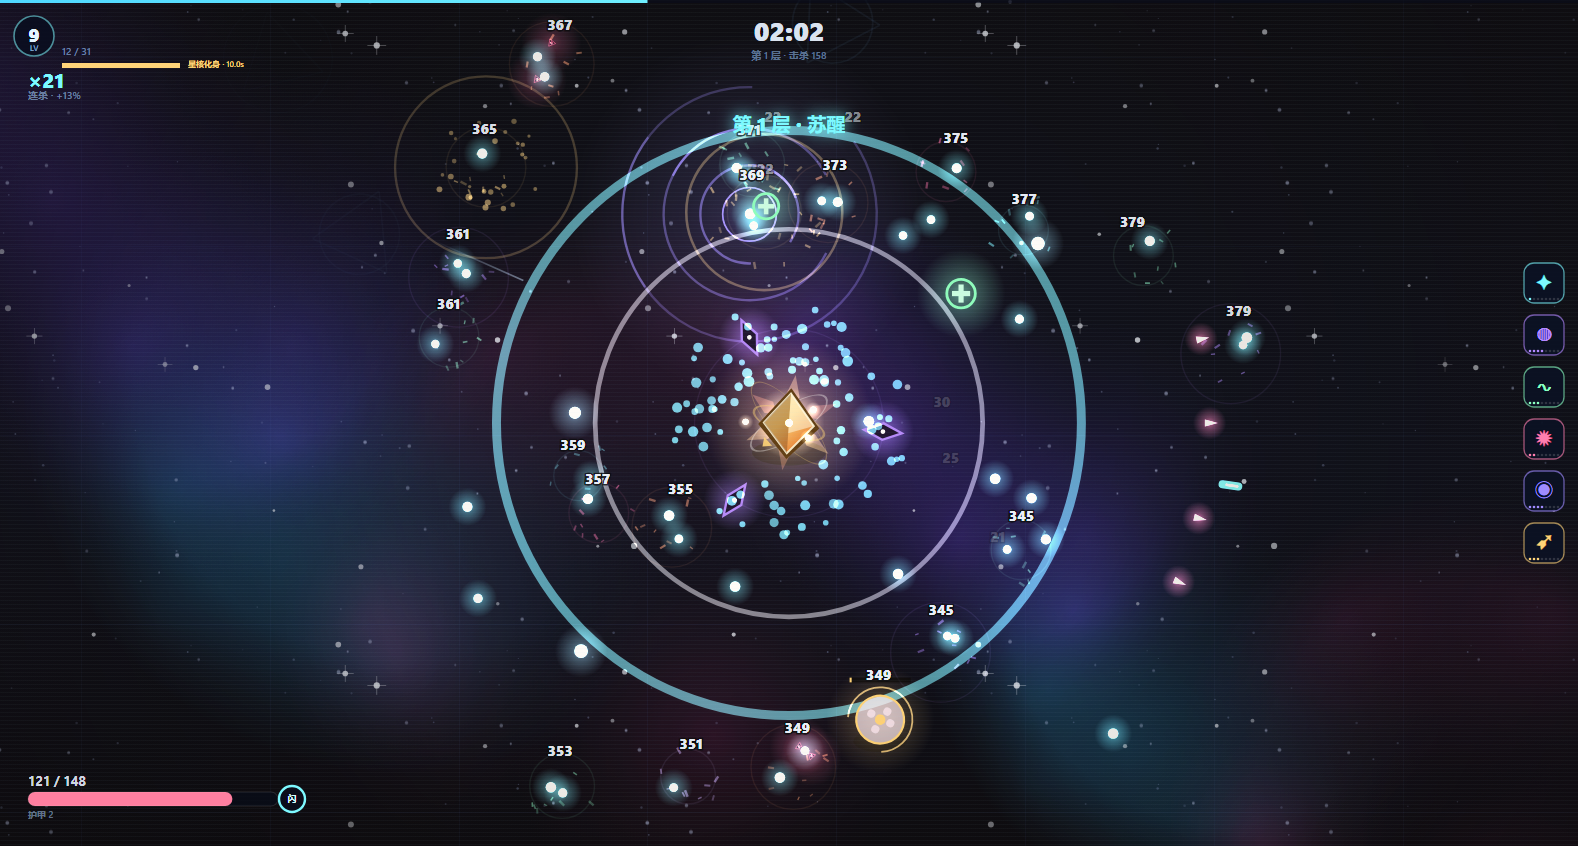
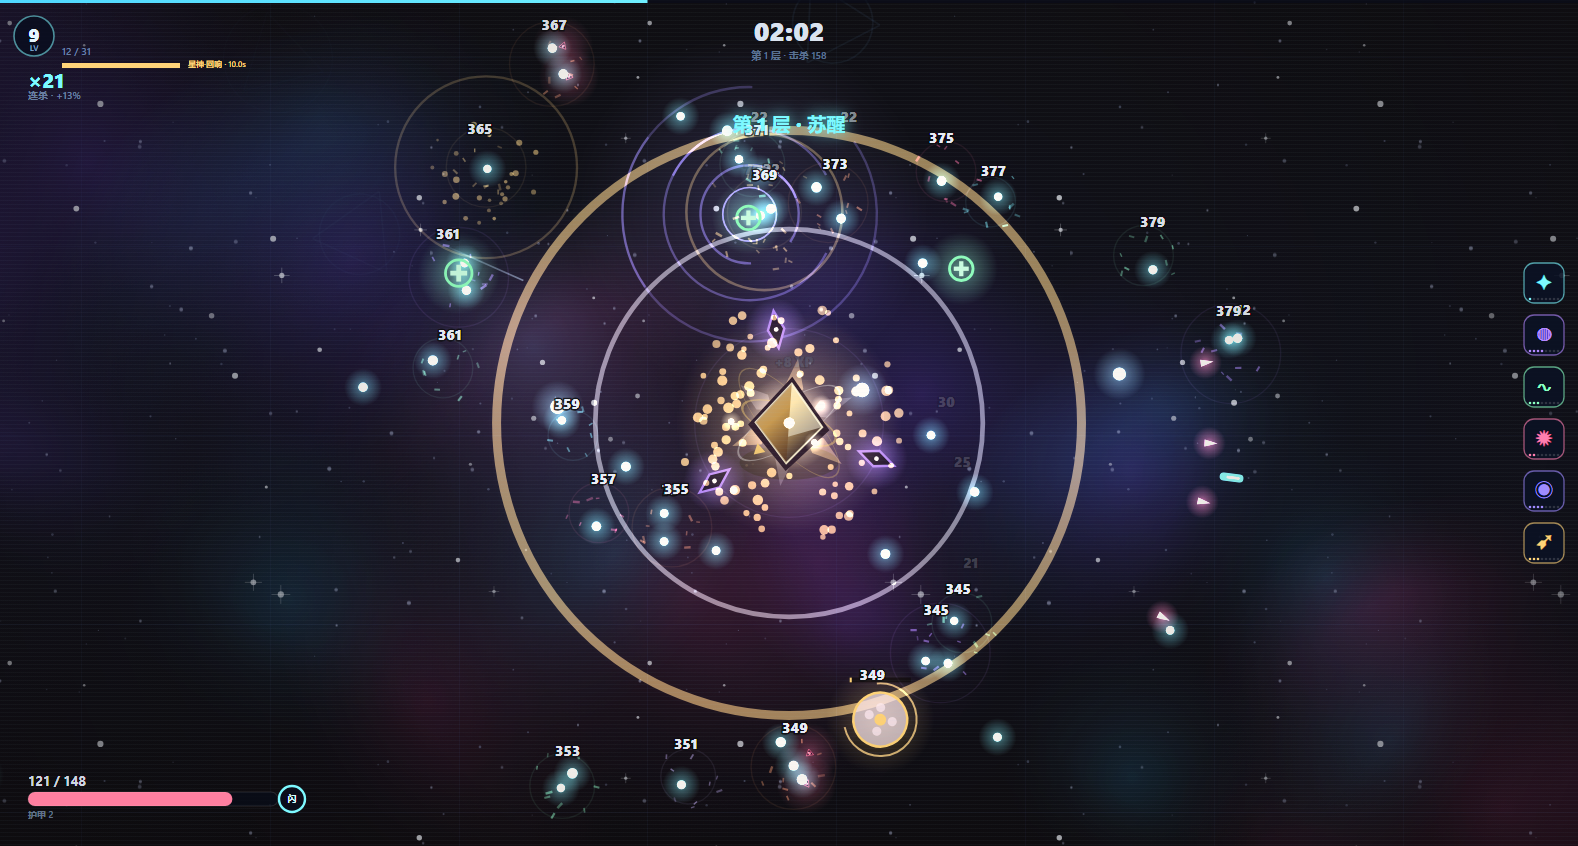
项目: 《星渊回响》v1.30.0 —— 满级流程与星神模型

diff --git a/projects/aether-echo/js/game.js b/projects/aether-echo/js/game.js
@@ -161,6 +161,7 @@
       if (runKills >= 600) unlock('run_600');
       if (runLevel >= 20) unlock('lv20');
       if (runLevel >= 40) unlock('lv40');
+      if (runLevel >= AE.Data.CONST.LEVEL_MAX) unlock('lv60');
       if (totalBosses >= 1) unlock('boss1');
       if (totalBosses >= 10) unlock('boss10');
       if ((st.evolves || 0) >= 1) unlock('evolve1');
@@ -713,6 +714,7 @@
       p.level = G.level;
       p.maxHp += 4;
       p.hp = Math.min(p.maxHp, p.hp + 4);
+      if (G.level >= AE.Data.CONST.LEVEL_MAX) G.xp = 0;
       G.xpNeed = AE.Data.xpNeed(G.level);
       G.pending++;
       AE.FX.ring(p.x, p.y, '#ffd479', 6, 120, 0.6, 3);
@@ -788,6 +790,11 @@
       const p = G.player;
       if (!p) return;
       const v = n * p.xpMul * ((G.mod && G.mod.xpMul) || 1);
+      if (G.level >= AE.Data.CONST.LEVEL_MAX) {
+        G.echoBonus += v * 0.02;
+        if (n >= 6) AE.FX.text(p.x, p.y - 34, '+' + Math.round(v * 0.02) + ' 回响', '#ffd479', 13);
+        return;
+      }
       G.xp += v;
       if (n >= 6) AE.FX.text(p.x, p.y - 34, '+' + Math.round(v) + ' XP', '#9fd8ff', 13);
     },
@@ -1094,8 +1101,8 @@
 
       ctx.textAlign = 'left';
       ctx.font = '600 10px ' + head;
-      ctx.fillStyle = 'rgba(150,190,235,0.65)';
-      ctx.fillText(Math.floor(G.xp) + ' / ' + G.xpNeed, 62, 52);
+      ctx.fillStyle = G.level >= AE.Data.CONST.LEVEL_MAX ? '#ffd479' : 'rgba(150,190,235,0.65)';
+      ctx.fillText(G.level >= AE.Data.CONST.LEVEL_MAX ? '满级 · 经验转回响' : (Math.floor(G.xp) + ' / ' + G.xpNeed), 62, 52);
 
       // 星核能量条 / 化身持续时间
       const uw = 118, ux = 62, uy = 63;

diff --git a/projects/aether-echo/js/data.js b/projects/aether-echo/js/data.js
@@ -9,7 +9,7 @@
   const D = (g.DATA = g.DATA || {});
   AE.Data = D;
 
-  D.VERSION = '1.29.3';
+  D.VERSION = '1.30.0';
   D.TITLE = '星渊回响';
   D.SUBTITLE = 'AETHER ECHO';
 
@@ -569,6 +569,7 @@
     { id: 'ult20', name: '超新星', desc: '单局释放 20 次星核爆发', icon: '⚡', color: '#ffd479' },
     { id: 'affix3', name: '词缀猎人', desc: '单局击破 3 名带词缀的首领', icon: '❖', color: '#9fb4ff' },
     { id: 'daily_win', name: '今日之星', desc: '完成一次每日挑战通关', icon: '☀', color: '#ffd479' },
+    { id: 'lv60', name: '星渊主宰', desc: '单局达到 60 级', icon: '❂', color: '#ffd479' },
     { id: 'allchar', name: '全员集结', desc: '解锁全部角色', icon: '✺', color: '#7df9ff' }
   ];
 

diff --git a/projects/aether-echo/js/player.js b/projects/aether-echo/js/player.js
@@ -377,7 +377,7 @@
     /* ---------- 绘制 ---------- */
     /* 星核化身：伪 3D 星神造型（分层棱面 + 光翼 + 三重环） */
     drawAvatar: function (ctx, p, t) {
-      const R = p.r * 2.1;
+      const R = p.r * 2.8;
       const av = p.avatar || AE.Data.AVATARS.echo;
       const col = av.color || '#ffd479';
       ctx.save();

diff --git a/projects/aether-echo/README.md b/projects/aether-echo/README.md
@@ -56,7 +56,7 @@ python -m http.server 8080
 - **七名角色**：逐光者把闪避本身变成穿身伤害，噬星者靠击杀永久叠伤，灼星者让所有命中附带持续燃烧并引燃周围。
 - **局外成长**：每局结束按表现结算「回响」，用于购买 8 种永久强化（含开局星核、灼烧强化）、解锁新角色。
 - **深渊契约**：开局可自选 1~4 条难度词条（兽潮 / 狂怒 / 疾行 / 精锐），每条敌人更强、结算回响 +20%，单独记录契约最佳。
-- **图鉴 / 档案**：全部武器、被动、敌人、首领、遗物、星象事件可查；28 项成就、生涯统计与本地最佳记录。
+- **图鉴 / 档案**：全部武器、被动、敌人、首领、遗物、星象事件可查；29 项成就、生涯统计与本地最佳记录。
 - **每日挑战**：每天一个固定种子，叠加 2 条随机扰动（敌人移速 / 伤害 / 经验 / 护甲等），单独记录今日最佳。
 - **设置**：音乐 / 音效音量、屏幕震动、伤害数字、动态效果、高对比、画质，自动保存；持续掉帧会自动降一档画质。
 - **自动存档**：进度保存在浏览器 localStorage。
@@ -186,7 +186,7 @@ aether-echo/
 这个项目在没有手动点击的情况下做了两轮自动化验证：
 
 1. **Node 无头模拟器**（`tools/sim.cjs`）：在 Node 中加载真实游戏代码 + Canvas/DOM 桩，跑完整 10 分钟对局，机器人自动走位与选卡，输出等级 / 击杀 / BOSS / DPS 时间线，用于数值平衡。
-2. **Chrome CDP 自动化**（`tools/selftest.html` + `tools/cdp-selftest.cjs`）：真实浏览器中执行 109 项 UI 冒烟测试（菜单、开始、升级选卡、暂停、恢复、结算、强化购买、角色解锁、逐光者闪避伤害、噬星者击杀叠伤、星核爆发与能量积攒、深渊之眼运转、遗物数量与处决 / 雷霆效果、深渊契约开关与倍率、设置、高对比 / 低动态、图鉴、档案、成就、每日挑战种子与每日记录、首领登场、首领连战、遗物三选一），并抓取控制台异常；同时用 CDP 截图做视觉回归，覆盖 1600×1000 桌面、1280×720 短屏与手机竖屏。
+2. **Chrome CDP 自动化**（`tools/selftest.html` + `tools/cdp-selftest.cjs`）：真实浏览器中执行 111 项 UI 冒烟测试（菜单、开始、升级选卡、暂停、恢复、结算、强化购买、角色解锁、逐光者闪避伤害、噬星者击杀叠伤、星核爆发与能量积攒、深渊之眼运转、遗物数量与处决 / 雷霆效果、深渊契约开关与倍率、设置、高对比 / 低动态、图鉴、档案、成就、每日挑战种子与每日记录、首领登场、首领连战、遗物三选一），并抓取控制台异常；同时用 CDP 截图做视觉回归，覆盖 1600×1000 桌面、1280×720 短屏与手机竖屏。
 
 运行方式（本机 Electron 内置 Node）：
 
@@ -197,7 +197,7 @@ aether-echo/
 # 数值模拟：标签 局数 最长秒数 起始种子 [god]
 <electron> tools/sim.cjs demo 4 700 1
 
-# UI 冒烟测试（真实 Chrome，109 项断言，结果写入 tools/selftest-result.txt）
+# UI 冒烟测试（真实 Chrome，111 项断言，结果写入 tools/selftest-result.txt）
 <electron> tools/cdp-selftest.cjs file:///.../tools/selftest.html tools/selftest-result.txt
 
 # 截图（需要 Chrome）
@@ -266,6 +266,7 @@ aether-echo/
 
 ## 版本记录
 
+- **1.30.0** — 满级流程补全：达到 60 级后不再堆积无用经验，拾取经验按 2% 转化为回响，HUD 显示「满级 · 经验转回响」；新增「星渊主宰」满级成就（29 项）；星核化身模型再放大 33%（R 2.1→2.8），更接近“巨型星神”；UI 冒烟测试扩到 111 项。
 - **1.29.3** — 首领暴走视觉强化：红色脉冲光环、旋转虚线戒环、碎屑爆发与屏幕闪白；首领名/词缀/中央播报/强敌警告重新分层，横屏 844×390 不再叠字；触屏链接按钮点击区提升到 40px；新增首领暴走状态断言（共 109 项）。
 - **1.29.2** — 性能与叠加验证：合并性能工作区的子弹视口裁剪（玩家/敌弹视口外不再绘制）与 XP 条渐变缓存；新增“首领狂暴词缀 + 深渊契约疾行”移速叠乘断言；无尽 32 分钟长局实测连续推进 23 名首领、无崩溃；UI 冒烟测试扩到 108 项。
 - **1.29.1** — 移动端长页面体验：图鉴、档案、强化的标题栏改为吸顶，返回按钮滚动时也常驻可见；修正滚动覆盖层顶部边距，内容不再从标题栏上方露出。
@@ -318,4 +319,4 @@ aether-echo/
 
 ---
 
-*版本 1.29.3 · 无外部素材 · 无第三方依赖*
+*版本 1.30.0 · 无外部素材 · 无第三方依赖*
